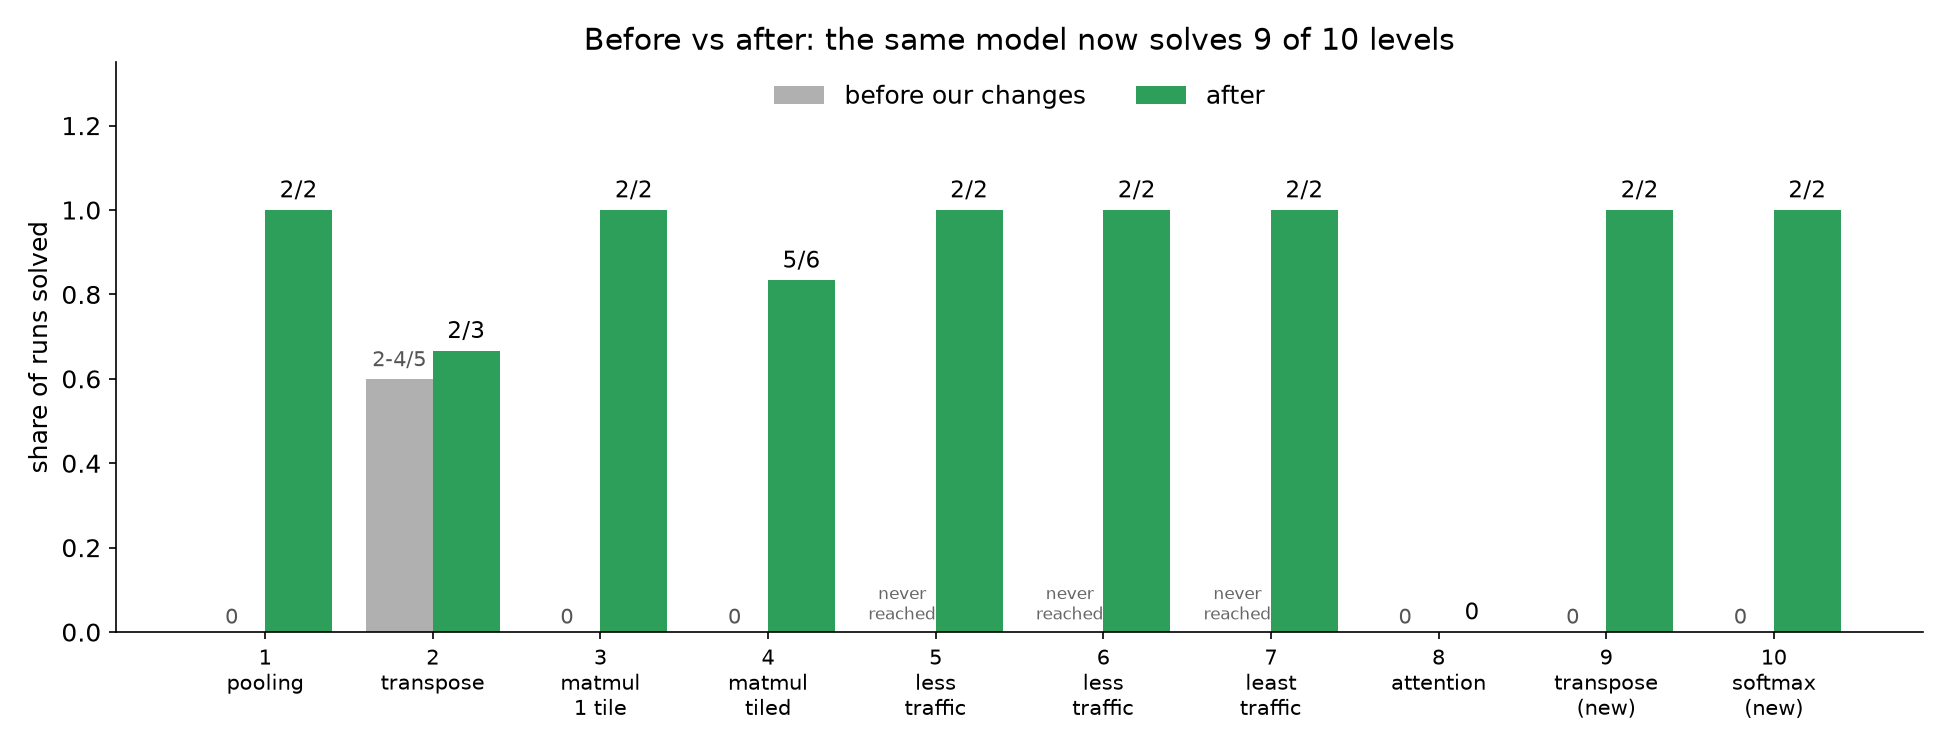
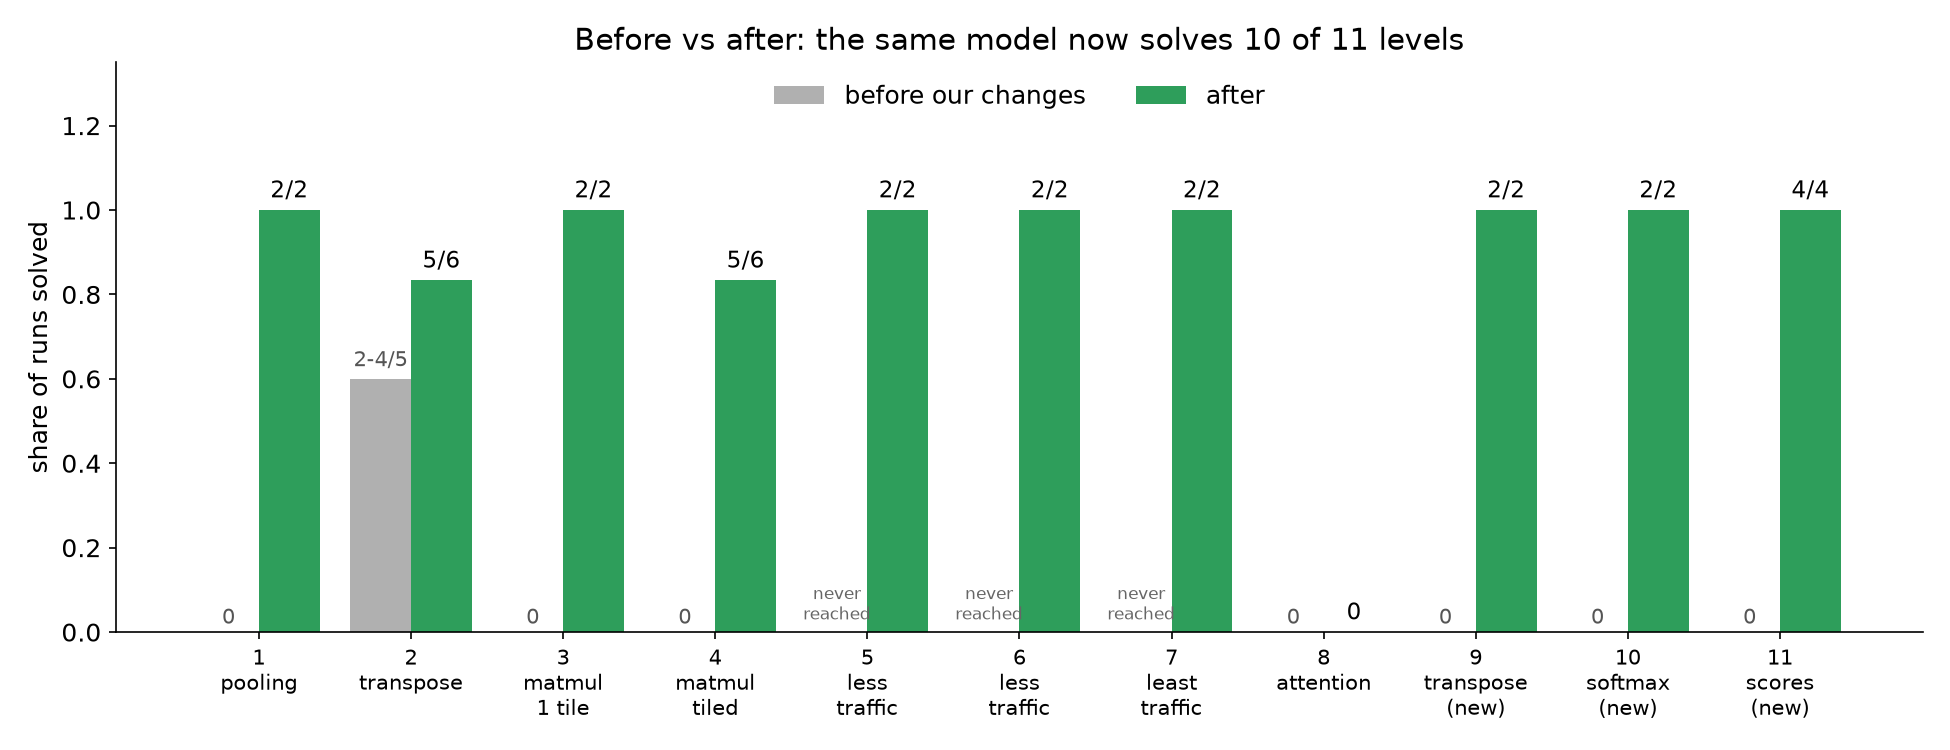
Submission write-up: results for 10 of 11 levels, the 7x faster loop, and honest limits
RESULTS.md is the one-page note: level 2 at 5/6 after the task-text fix, level 11 at 4/4 with building
blocks, the whole-chip server (5.6 -> 39 tokens/s per request), the scoring-hole fix, and what is not
verified (level 8, kernel speed, level 6's PSUM init on the chip). Charts updated; the project and root
README status lines now point at it.

diff --git a/projects/20-kernel-agent/analysis/make_charts.py b/projects/20-kernel-agent/analysis/make_charts.py
@@ -21,10 +21,11 @@ def save(fig, name):
 
 # 1. Before vs after: share of runs solved per level -----------------------------------------
 levels = ["1\npooling", "2\ntranspose", "3\nmatmul\n1 tile", "4\nmatmul\ntiled", "5\nless\ntraffic",
-          "6\nless\ntraffic", "7\nleast\ntraffic", "8\nattention", "9\ntranspose\n(new)", "10\nsoftmax\n(new)"]
-before = [0, 3 / 5, 0, 0, 0, 0, 0, 0, 0, 0]   # level 2: the repo measured 2/5 to 4/5 with the original agent
-after = [2 / 2, 2 / 3, 2 / 2, 5 / 6, 2 / 2, 2 / 2, 2 / 2, 0, 2 / 2, 2 / 2]
-after_lbl = ["2/2", "2/3", "2/2", "5/6", "2/2", "2/2", "2/2", "0", "2/2", "2/2"]
+          "6\nless\ntraffic", "7\nleast\ntraffic", "8\nattention", "9\ntranspose\n(new)", "10\nsoftmax\n(new)",
+          "11\nscores\n(new)"]
+before = [0, 3 / 5, 0, 0, 0, 0, 0, 0, 0, 0, 0]   # level 2: the repo measured 2/5 to 4/5 with the original agent
+after = [2 / 2, 5 / 6, 2 / 2, 5 / 6, 2 / 2, 2 / 2, 2 / 2, 0, 2 / 2, 2 / 2, 4 / 4]
+after_lbl = ["2/2", "5/6", "2/2", "5/6", "2/2", "2/2", "2/2", "0", "2/2", "2/2", "4/4"]
 fig, ax = plt.subplots(figsize=(13, 5))
 x = range(len(levels))
 ax.bar([i - 0.2 for i in x], before, 0.4, color=GREY, label="before our changes")
@@ -40,17 +41,17 @@ for i in range(len(levels)):
         ax.text(i - 0.2, 0.02, "0", ha="center", fontsize=10, color="#555")
 ax.set_xticks(list(x)); ax.set_xticklabels(levels, fontsize=10)
 ax.set_ylim(0, 1.35); ax.set_ylabel("share of runs solved")
-ax.set_title("Before vs after: the same model now solves 9 of 10 levels")
+ax.set_title("Before vs after: the same model now solves 10 of 11 levels")
 ax.legend(loc="upper center", ncol=2, frameon=False)
 save(fig, "chart_1_before_after.png")
 
 # 2. How fast: round of the first solve, per solved run ---------------------------------------
-solves = {"1": [4, 4], "2": [2, 2], "3": [1, 2], "4": [1, 1], "5": [0, 0], "6": [0, 1], "7": [1, 1],
-          "9": [0, 0], "10": [0, 0]}
+solves = {"1": [4, 4], "2": [0, 2, 0, 0, 1], "3": [1, 2], "4": [1, 1], "5": [0, 0], "6": [0, 1], "7": [1, 1],
+          "9": [0, 0], "10": [0, 0], "11": [1, 1, 1, 1]}
 fig, ax = plt.subplots(figsize=(10, 4.5))
 for i, (lv, rounds) in enumerate(solves.items()):
     for j, r in enumerate(rounds):
-        ax.scatter(i + (j - 0.5) * 0.15, r + 1, s=120, color=BLUE)
+        ax.scatter(i + (j - (len(rounds) - 1) / 2) * 0.12, r + 1, s=90, color=BLUE)
 ax.set_xticks(range(len(solves))); ax.set_xticklabels([f"level {k}" for k in solves])
 ax.set_ylabel("attempt number that solved it"); ax.set_ylim(0, 6); ax.set_yticks(range(1, 6))
 ax.set_title("How quickly each level was solved (each dot = one run; lower is faster)")

diff --git a/projects/20-kernel-agent/RESULTS.md b/projects/20-kernel-agent/RESULTS.md
@@ -1,152 +1,102 @@
-# Project 2 — teaching a small model to write chip code
+# Project 2 — teaching a small model to write chip code (team 20)
 
-**In one line:** the same small AI model (Qwen3-8B, running on one Trainium2 chip) went from being stuck on
-most levels to solving **9 of 10** — not by changing the model, but by changing **what the checker tells it
-after each failed try**, and by letting it **reuse code it had already got right**.
+**In one line:** the same small model (Qwen3-8B on one Trainium2 chip) went from solving almost nothing to
+solving **10 of 11 levels**: we changed **what the checker tells it after a failed try**, let it **reuse code
+it had already got right**, and made the loop **7× faster**. Level 8 (full attention) is still open.
 
 ![How the loop works](assets/agent_loop.png)
 
 ## How it works
 
-1. The model is asked to write a small program ("kernel") for the chip.
-2. A **checker** runs it and compares the output with the right answer on several test inputs.
-3. If it's wrong, the checker's message goes back to the model, and it tries again (4 tries per round, up to 8 rounds).
-4. A level counts as **solved** only when every test input comes out right — and every solved program was
-   checked again afterwards, separately.
+1. The model writes a small program ("kernel") for the chip.
+2. A **static check** (`lint.py`) reads it first and lists every memory, shape and API mistake at once.
+3. The **checker** (`nkibench.py`) runs it in the simulator and compares the output with the right answer.
+4. The checker's message goes back to the model; it tries again (4 tries per round, up to 8 rounds).
+5. A level counts as **solved** only when every test input is right — and each solution was re-checked separately.
 
 ## Results
 
 ![Before vs after](assets/chart_1_before_after.png)
 
-| level | what the program does | before | after |
+| level | what the program does | before | after (runs solved) |
 |---|---|---|---|
-| 1 | average pooling | never solved | **solved in 2 of 2 runs** |
-| 2 | transpose | 2–4 of 5 runs | 2 of 3 runs — *no real change* |
-| 3 | matrix multiply, small | never solved | **2 of 2** |
-| 4 | matrix multiply, large | never solved | **5 of 6** |
-| 5–7 | the same, but moving less data | never reached | **2 of 2 each** |
-| 8 | attention | never solved | **still not solved** |
-| 9–10 *(we added these)* | transpose and softmax, as stepping stones to level 8 | stuck | **2 of 2 each** |
+| 1 | average pooling | never | **2 of 2** |
+| 2 | transpose inside each row | 2–4 of 5 | **5 of 6** |
+| 3 | matrix multiply, one tile | never | **2 of 2** |
+| 4 | matrix multiply, tiled | never | **5 of 6** |
+| 5–7 | the same, moving less data | never reached | **2 of 2 each** |
+| 8 | full attention | never | **not solved** |
+| 9–10 *(added)* | transpose, softmax — stepping stones to 8 | stuck | **2 of 2 each** |
+| 11 *(added)* | attention scores q·kᵀ/√d | stuck | **4 of 4** with building blocks, 2 of 4 without |
 
 ![How fast](assets/chart_2_speed.png)
 
-Most levels are now solved on the 1st or 2nd try; levels 5–7, 9 and 10 often on the very first.
-
-## What made the difference
-
-1. **Say what to change, not just "wrong".** The original checker said things like "this size is too big".
-   We made it say *how* the program should be structured to fix it — in words, never by handing over code.
-2. **Use the error's own numbers.** "You put 32,768 values into a space for 65,536 — that's the wrong
-   container" fixed level 3 after vaguer messages didn't.
-3. **Keep helping as the mistake changes.** Fixing one error exposes the next; the help has to follow it.
-4. **Reuse what already works.** Levels 5–7 are a harder version of level 4. Starting the model from its
-   *own* correct level-4 program let it solve them on the first or second try.
-5. **Show the real commands up front.** On levels 9 and 10 the model kept inventing commands that don't
-   exist. Showing it the real ones — one line each — took both from stuck to solved on the first try.
-
-## Where the effort was going to waste
-
-![Where effort was wasted](assets/chart_3_waste.png)
-
-From all 866 attempts we logged:
-
-* In **70%** of rounds, the model's 4 tries were the **exact same code** — 3 of every 4 tries wasted.
-  *Fix:* ask for each try with a different amount of randomness. (Measured: it helped only a little — this
-  model is very sure of itself.)
-* In **39%** of retries, the model sent back **the code it was given, unchanged**, and the loop didn't notice.
-  *Fix:* the loop now tells it "you changed nothing".
-* **26%** of rounds repeated a mistake already seen twice. Nearly every solve came by the 3rd round, so
-  stopping earlier and starting fresh is a better use of time *(recommended; not yet used in our runs)*.
-* **15%** of mistakes were **made-up commands** — fixed by showing the real ones up front (see above).
-
-## What the model got wrong, level by level
-
-![Failures by level](assets/chart_4_failures.png)
-
-Each level had one dominant mistake: level 1 invented commands, levels 3–5 used the wrong size of
-container, level 8 kept putting data in the wrong kind of memory.
-
-## Is it real? Two checks
-
-**Tested on inputs it had never seen** (`holdout_check.py`): 228 new test cases — new sizes, new random
-data, extreme values.
+**Is it real?** 228 inputs the agent never saw (`holdout_check.py`): **210 pass, none gives wrong numbers**;
+the 18 failures are sizes that aren't multiples of the tile size. On the real chip (`device_check.py`), the
+level 3, 4, 7, 9 and 10 programs gave **15 of 15 correct**.
 
 ![Unseen tests](assets/chart_5_unseen.png)
 
-210 pass, and **not a single one gave wrong numbers**. Every failure was a size the program simply doesn't
-handle (the matrix programs only work when sizes are exact multiples of 128 or 512).
+## What made the difference
 
-**Run on the real chip** (`device_check.py`): the level 3, 4, 7, 9 and 10 programs ran on the actual Trainium2
-chip, not just the simulator — **15 of 15 correct**, with errors around one in a million.
+1. **Name the fix, not the verdict.** "Wrong" became "this is the structure that fixes it", using the
+   error's own numbers ("32,768 values into a space for 65,536").
+2. **Find every mistake at once.** The simulator stops at the first error, so each round fixed one mistake and
+   revealed the next. `lint.py` lists all of them, checks invented commands against the installed NKI, and
+   quotes the matching AWS NKI doc rule. Checked on our logs: no false alarm on any correct program; it catches
+   every logged memory error and 10 of 13 invented-command errors.
+3. **Reuse what already works.** Levels 5–7 start from the agent's own level-4 program; levels 8 and 11 see
+   its solved transpose, softmax and matmul programs. Level 11 went from stuck to 4 of 4.
+4. **Say which step is wrong.** When attention gives wrong numbers, the checker compares the output with the
+   usual wrong versions (scale inverted, Pᵀ·V, softmax on the wrong axis…) and names the one it matches.
+5. **Fix the task text.** Level 2's description said the transpose crosses partitions; the reference keeps
+   them. Corrected, level 2 went from about 2 in 3 to 5 of 6.
+6. **Make the loop fast.** The model server used half the chip. On the whole chip: **5.6 → 39 tokens/s per
+   request**, a round went from **~120 s to 18–30 s**.
 
-## Attacking level 8 (attention) — still open
+## What we measured about the loop itself (866 logged attempts)
 
-The model knows the maths; what it gets wrong is how this chip's instructions behave. Its last mistake on
-every level-8 run: it multiplies `q` by `k` directly to get q·kᵀ — correct maths — but the chip's matrix
-multiply sums over the *first* axis, so the result comes out the wrong shape. NumPy habits, not maths.
+![Where effort was wasted](assets/chart_3_waste.png)
 
-What we built for it:
-
-* **A static checker** (`lint.py`, switch `--lint`). The simulator stops at the *first* error, so each try
-  fixed one mistake and revealed the next — about two minutes per mistake. The checker reads the program
-  before running it and lists **every** memory, shape and operator mistake at once, each with its line and
-  the fix. Checked against our logs: it caught all 58 logged level-8 mistakes of these kinds, found 3–6 per
-  failing program (the simulator reports one per run), and raises no false alarm on any solved program.
-* **Stepping stones**: levels 9 (transpose) and 10 (softmax) are solved; level 11 (the q·kᵀ step) is not yet.
-* **Building blocks**: level 8 and 11 runs are shown the model's own solved programs to reuse.
-* **Four different framings per round** instead of four temperatures (e.g. "plan every tile's memory first").
-
-Status: level 8 and level 11 are **not solved**. Mistakes per program now range 1–7 and do not shrink steadily
-round to round. One finding: the checker's first version gave advice that contradicted itself on one line,
-and the model flipped between the two answers; that is fixed. Its newest message spells out the exact
-transpose steps for q·kᵀ — very prescriptive, so a solve with it would be "the checker teaching the method".
-
-## Experiment tooling
-
-* **Every attempt now records** real token counts, whether the answer was cut off, response time, which
-  sample the loop picked, a session id, and a fingerprint of the exact code used.
-* **`ab.py`** runs fair comparisons: baseline and improved runs alternate, with the same budget, and it stops
-  if the code changes mid-experiment.
-* **Repetition, not circles**: across all logged rounds, 45% repeated the previous round's mistake, while only
-  2% went back to an older one. The stall is repetition.
-* **A measured "no difference"**: on level 4, varying the samples' randomness plus the "you changed nothing"
-  check gave 3 of 3 — the same as without them (3 of 3).
+* **70%** of rounds had 4 identical tries. The server's sampling is deterministic, so even separate seats ran
+  identical traces; each server now gets its own seed.
+* **39%** of retries returned the code unchanged — the loop now says "you changed nothing".
+* A cut-off reply that looped on one comment line "ran", returned nothing and **outscored honest attempts**.
+  Fixed: returning nothing is not running, and cut-off replies rank last.
 
 ## Honest limits
 
-* Few runs per level (2–3), one model. Read "2 of 2" as "two tries", not a guarantee.
-* The help messages describe the solution's structure in a lot of detail (level 1's most of all) — this is
-  "the checker teaches the method", not the model discovering it alone.
-* We checked correctness on the real chip, **not speed**.
-* Level 8 (attention) is still unsolved: every attempt failed on a new mistake before it ever produced numbers.
-* We also fixed a bug in the provided checker that crashed on correct level-8 programs.
+* Few runs per level (2–6), one model. "2 of 2" means two tries, not a guarantee.
+* The feedback describes the solution's structure in detail: this is the checker teaching the method.
+* `reference_level8.py` is **hand-written by us**, never shown to the agent: it only proves level 8 is solvable.
+* We checked correctness on the chip, **not kernel speed**; levels 6 and 11 were not run on the chip.
+  Level 6 zeroes PSUM before accumulating, which AWS documents as a hazard on older chips — unverified here.
+* Levels 5–7 load whole inputs on chip and the matrix programs need tile-multiple sizes: fine for the
+  tests, not general.
+* Most changes are switches (`--lint`, `--level-hints`, `--blocks`, …). Always on: the scoring fixes above,
+  the level-2 text fix, and stricter re-checks.
 
 ## Rerun it
 
 ```bash
+TP=4 MAX_MODEL_LEN=8192 BLOCKS=1024 VLLM_EXTRA_ARGS="--seed 1" ./serve.sh     # whole chip: 7x faster
 cd /workspace/projects/20-kernel-agent
-python nkibench.py --selftest                     # the checker checks itself
-COMMON="--rounds 8 --samples 4 --context 8192 --model Qwen/Qwen3-8B"
-python agent.py --level 4 $COMMON --repeat 3      # original behaviour
-python agent.py --level 4 $COMMON --repeat 3 --level-hints                                    # better messages
-python agent.py --level 7 $COMMON --repeat 2 --level-hints --seed-from solved/level04_matmul_tiled.py   # reuse
-python agent.py --level 9 $COMMON --repeat 2 --level-hints --portfolio --echo-check          # real commands shown
-python holdout_check.py                           # unseen inputs
-NEURON_PLATFORM_TARGET_OVERRIDE=trn2 NEURON_RT_VISIBLE_CORES=2 python device_check.py   # real chip, a free core
-python analysis/make_charts.py                    # redraw the charts
+python nkibench.py --selftest
+COMMON="--rounds 8 --samples 4 --context 8192 --model Qwen/Qwen3-8B --level-hints --lint"
+python agent.py --level 2 $COMMON --repeat 6 --echo-check
+python agent.py --level 7 $COMMON --repeat 2 --seed-from solved/level04_matmul_tiled.py
+python agent.py --level 11 $COMMON --repeat 4 --blocks solved/level09_transpose_tensor_engine.py
+python holdout_check.py; python device_check.py; python analysis/trace_analysis.py attempts.jsonl
 ```
-
-Every change is behind a switch: without them, the agent behaves exactly like the original.
 
 ## Files
 
 | file | what it is |
 |---|---|
 | `agent.py` | the loop, with our changes |
-| `nkibench.py` | the checker (bug fix, stricter re-checks, levels 9–11) |
-| `solved/` | every program the model wrote that passed, plus its re-check printout |
+| `nkibench.py` | the checker (bug fixes, stricter re-checks, levels 9–11) |
+| `lint.py` | the static check: every memory, shape and API mistake at once, with AWS doc excerpts |
+| `solved/` | every program the agent wrote that passed, with its re-check printout |
+| `reference_level8.py` | our hand-written attention kernel (proof of solvability, not an agent result) |
 | `holdout_check.py`, `device_check.py` | the two "is it real?" checks |
-| `lint.py` | the static checker (memory, shape and operator mistakes, all at once) |
-| `ab.py` | fair A/B experiment runner |
-| `analysis/` | the attempt-log analysis and the chart script |
-| `assets/` | the diagram and charts |
+| `ab.py`, `analysis/` | fair A/B runner, attempt-log analysis, chart script |

diff --git a/projects/20-kernel-agent/README.md b/projects/20-kernel-agent/README.md
@@ -3,21 +3,17 @@
 **An agent writes small programs that run directly on the chip, and keeps verifying its own output
 as it goes.**
 
-> ## STATUS: RUNNABLE, NOT YET SOLVED
+> ## STATUS (team 20): 10 OF 11 LEVELS SOLVED — LEVEL 8 (ATTENTION) STILL OPEN
 >
-> **Works today, verified on a trn2 node:** the ladder, the checker (`nkibench.py`), four reference
-> kernels that pass it, and the agent loop (`agent.py`) writing kernels against a live model.
+> **Results, charts and limits: [RESULTS.md](RESULTS.md).** The same Qwen3-8B now solves levels 1–7 and
+> our stepping-stone levels 9–11, re-checked on 228 unseen inputs (210 pass, none with wrong numbers) and
+> 15/15 on the real chip. What changed: feedback that names the fix, a static check (`lint.py`) that lists
+> every mistake at once, reuse of the agent's own verified kernels, and the model server on the whole chip
+> (7× faster rounds).
 >
-> **Not there yet:** the agent has not solved a single level. Its best score is 0.30 of 1.0 — code
-> that parses, obeys the rules and runs, but computes the wrong numbers. The transcripts below show
-> exactly where it stalls, and that is the problem you are being handed.
->
-> **Also missing:** reference kernels for levels 5 to 7, so the optimization half of the ladder is
-> unmarked; and layers 2 and 3 of the checker, so **latency cannot be measured at all yet** — every
-> number here is throughput reasoning from the simulator.
->
-> This is a genuinely open problem, not a tidied-up exercise with a hidden answer. If you get a level
-> to 1.0, you have done something nobody here has.
+> **Still open:** level 8 (full attention) — the agent has not solved it. `reference_level8.py` is our
+> hand-written kernel proving it is solvable; the agent never sees it. Kernel speed on the device is not
+> measured. The original README below is kept as the problem statement.
 
 ---
 

diff --git a/README.md b/README.md
@@ -339,7 +339,7 @@ stack five programmers tend to lose these.
 | # | project | status |
 |---|---|---|
 | **1** | [**The heat-rod agent**](projects/01-heat-rod-pde/) — a small model solves heat-equation problems under a checker that grades the physics, with a calculator it aims itself. | **solved 6/6** |
-| **2** | [**The kernel agent**](projects/20-kernel-agent/) — an agent writes NKI kernels that run on the chip and keeps verifying its own output. | runs; **unsolved** |
+| **2** | [**The kernel agent**](projects/20-kernel-agent/) — an agent writes NKI kernels that run on the chip and keeps verifying its own output. | **10 of 11 levels** (team 20, see [RESULTS](projects/20-kernel-agent/RESULTS.md)); level 8 open |
 
 Both project READMEs open with a real transcript of what the loop prints, so you can judge a project — and
 tell progress from flailing — before starting.
